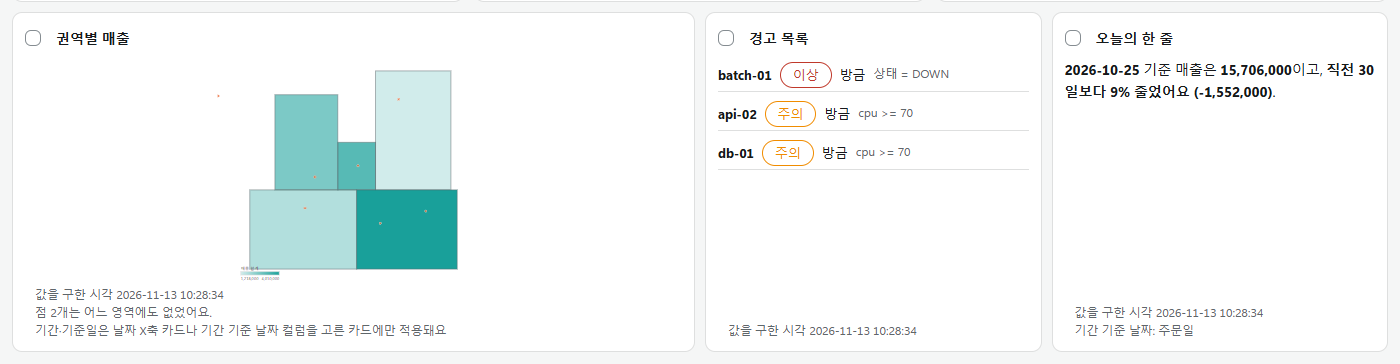
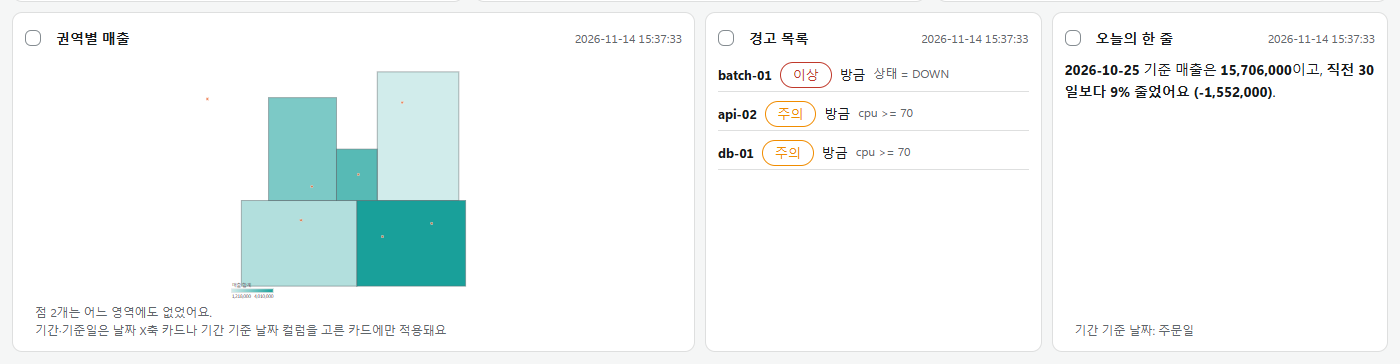
대시보드 카드: 값을 구한 시각을 카드 머리 오른쪽에 (#9)
* 대시보드 카드: 값을 구한 시각을 카드 머리 오른쪽에 날짜·시각만

- 카드 아래 안내 줄에서 빼고 머리 오른쪽 time.bat으로(편집 중에는 이름 아랫줄)
- 그림 두 장 다시 찍음

* 문서 그림: 대시보드 그림 13장 다시 찍음(시각이 카드 머리로)

* CHANGELOG: v2.3.2.1

---------

diff --git a/web/components/grid/Grid.tsx b/web/components/grid/Grid.tsx
@@ -20,13 +20,12 @@ import { metrics, useDrag } from "./useDrag";
 // 빈 틀 카드(템플릿·카드 모음에서 막 놓은 카드)의 안내
 const SHELL_NOTE = "아직 데이터가 없어요. 제목 옆 ⚙를 눌러 테이블과 컬럼을 고르세요.";
 
-/** 카드 아래 안내(옛 dash.js .bwhen): 다른 연결의 이전 값, 값을 구한 시각, 서버 안내, 저장된 일 값의 시작일, 기간 기준 날짜, 연결해서 다시 구해야 하는 집계. 한 줄에 하나 */
+/** 카드 아래 안내(옛 dash.js .bwhen): 다른 연결의 이전 값, 서버 안내(값을 구한 시각은 카드 머리 오른쪽 .bat), 저장된 일 값의 시작일, 기간 기준 날짜, 연결해서 다시 구해야 하는 집계. 한 줄에 하나 */
 export function whenLines(card: Card, d: Card["data"], range: Ctx["range"], conn: Source, merge: string[]) {
   const first = d.by_unit?.day?.labels[0], paint = !CHART_KINDS.includes(card.kind);
   const noDate = range && !d.by_unit && !card.source?.date && !["recent_rows", "status", "alerts", "map"].includes(card.kind) && !isPoints(card);
   return [
     conn && card.source?.key && !sameSource(card.source.key, conn.key) ? "다른 연결에서 구한 이전 값이에요" : "",
-    d.computed_at ? "값을 구한 시각 " + d.computed_at.replace("T", " ") : "",
     d.note,
     range?.start && first && range.start < first ? `저장된 일 값은 ${first}부터예요` : "",
     card.source?.date && !d.by_unit ? `기간 기준 날짜: ${card.source.date}` : noDate ? "기간·기준일은 날짜 X축 카드나 기간 기준 날짜 컬럼을 고른 카드에만 적용돼요" : "",
@@ -122,6 +121,7 @@ export function Grid() {
         const sel = state.picked.includes(card.id), open = state.selected === card.id;
         const paint = !CHART_KINDS.includes(card.kind);
         const result = state.values[card.id], said = card.kind === "kpi" ? undefined : compares[card.id];
+        const at = isShell(card) ? undefined : (result?.data ?? card.data)?.computed_at;
         return (
           <section key={card.id} data-id={card.id} tabIndex={0} aria-label={card.title + (sel ? " (선택됨)" : "")} title={dashOnly ? undefined : "눌러서 선택해요. 여러 개 고를 수 있어요"}
             className={"bcard" + (sel ? " sel" : "") + (open && edit ? " editing" : "")}
@@ -134,6 +134,7 @@ export function Grid() {
               <input className="btitle" key={card.title} defaultValue={card.title} readOnly={!edit} aria-label="카드 이름" title="카드 이름. 그림으로 저장할 때 파일 이름이 돼요"
                 onClick={e => e.stopPropagation()}
                 onBlur={e => { const t = e.target.value.trim() || card.title; e.target.value = t; if (t !== card.title) dispatch({ type: "card", id: card.id, patch: { title: t } }); }} />
+              {at && <time className="hint bat" dateTime={at} title="값을 구한 시각">{at.replace("T", " ")}</time>}
               {edit && <button className="ib" title="카드 설정" aria-label={`${card.title} 카드 설정`} onClick={e => { e.stopPropagation(); dispatch({ type: "select", id: card.id }); }}>⚙</button>}
               {edit && <button className="ib" title="이 카드 빼기" aria-label={`${card.title} 카드 빼기`} onClick={e => { e.stopPropagation(); remove(card.id); }}>×</button>}
             </div>

diff --git a/static/core/dash_edit.css b/static/core/dash_edit.css
@@ -23,7 +23,9 @@
 .board.grid .bcard { display:flex; flex-direction:column; min-height:0; overflow:hidden; position:relative; cursor:default; }
 .board.grid .bhead.movable { cursor:grab; touch-action:none; user-select:none; flex-wrap:wrap; row-gap:2px; }
 .board.grid .bhead.movable .btitle { flex-basis:5em; }  /* 좁은 카드에서는 단추가 아랫줄로 내려가 이름이 보인다 */
-.board.grid .bhead.movable .btitle + .ib { margin-left:auto; }
+.board.grid .bhead.movable .ib:first-of-type { margin-left:auto; }
+.bat { flex:none; margin:0; white-space:nowrap; font-variant-numeric:tabular-nums; }  /* 카드 머리 오른쪽의 값을 구한 시각 */
+.board.grid .bhead.movable .bat { order:1; flex-basis:100%; }  /* 편집 중에는 단추에 자리를 내주고 이름 아랫줄로 */
 .board.grid .bcard.dragging { opacity:.8; box-shadow:0 8px 24px rgba(0, 0, 0, .25); z-index:2; }
 .board.grid .bcard.dragging .bhead.movable { cursor:grabbing; }
 .board.grid .bcard.editing { border-color:var(--accent); }

diff --git a/CHANGELOG.md b/CHANGELOG.md
@@ -2,6 +2,18 @@
 
 릴리스마다 `## v버전` 절을 두고, 그 안을 `### 추가`·`### 개선`·`### 삭제`로 나눈다(바뀐 것이 없는 칸은 "없음"). 태그를 올리면 릴리스 작업이 그 버전의 절을 릴리스 설명과 `RELEASE_NOTES.md`로 올리고, 앱은 새 버전을 알릴 때 이것을 보여 준다. 절이 없으면 릴리스를 만들지 않는다.
 
+## v2.3.2.1
+
+### 추가
+없음
+
+### 개선
+- 대시보드 카드: 값을 구한 시각을 카드 아래 줄 대신 카드 이름 오른쪽에 날짜·시각만 보여요(편집 중에는 이름 아랫줄).
+- 설명서: 메모리 한도 설명에 한도별로 쓰는 메모리와 걸리는 시간의 예를 넣었어요.
+
+### 삭제
+없음
+
 ## v2.3.2
 
 ### 추가
